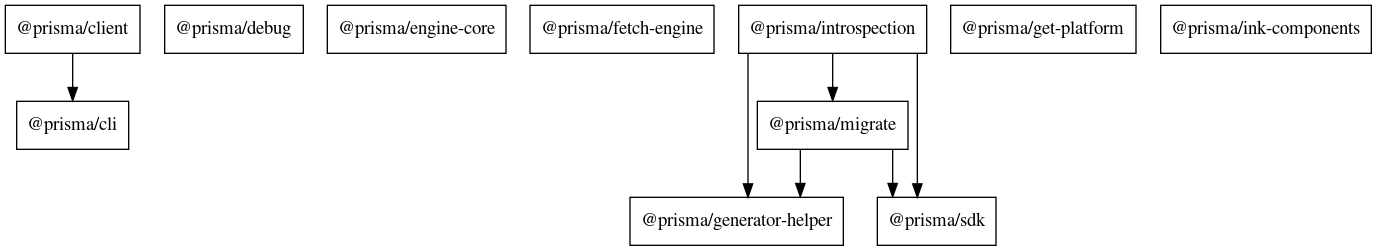
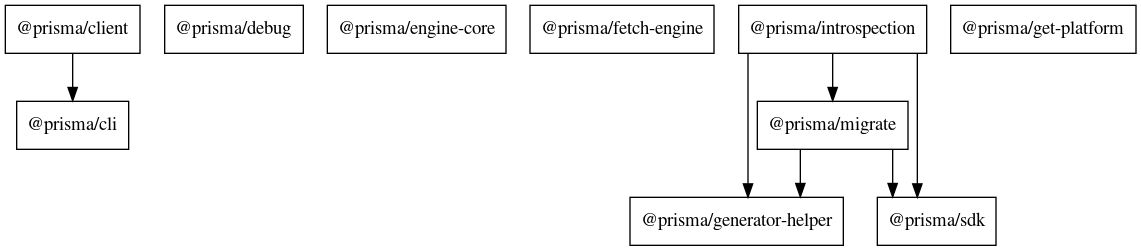
chore: Update Dep Graphs

diff --git a/src/scripts/graph-dependencies.ts b/src/scripts/graph-dependencies.ts
@@ -31,12 +31,16 @@ function generateGraph(
   const g = digraph('G')
   g.set('splines', 'ortho')
   packages?.forEach((pkg) => {
-    const json = require(pkg.jsonPath)
-    g.addNode(json.name, { shape: 'box' })
-    const keys = getKeys(json, type)
-    const depNodes = keys.map((key) => {
-      g.addEdge(json.name, key, {})
-    })
+    try{
+      const json = require(pkg.jsonPath)
+      g.addNode(json.name, { shape: 'box' })
+      const keys = getKeys(json, type)
+      const depNodes = keys.map((key) => {
+        g.addEdge(json.name, key, {})
+      })
+    } catch {
+      
+    }
   })
   g.output('png', `./graphs/${type}.png`, (err, stdout, stderr) => {
     console.log(stderr)
